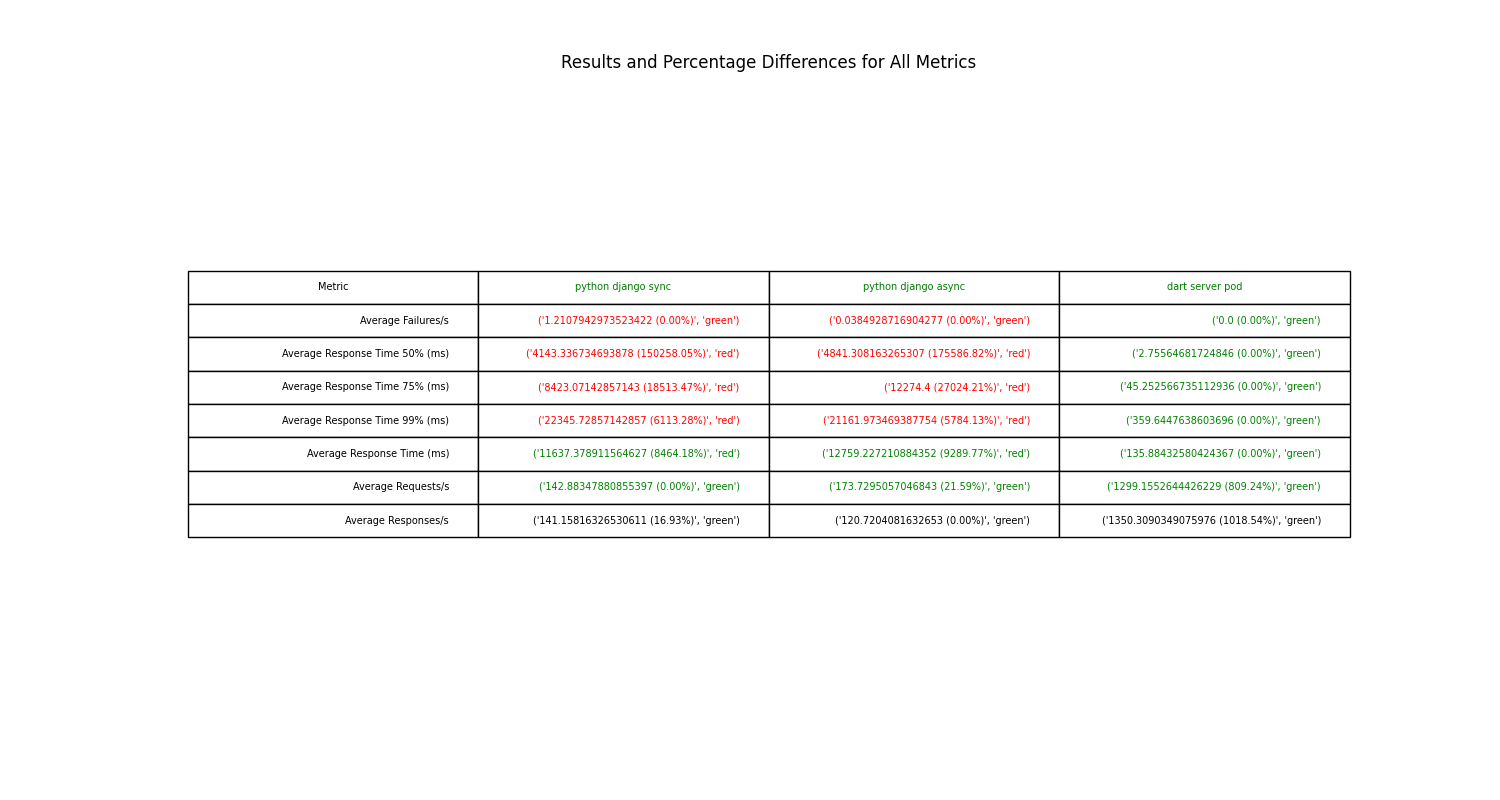
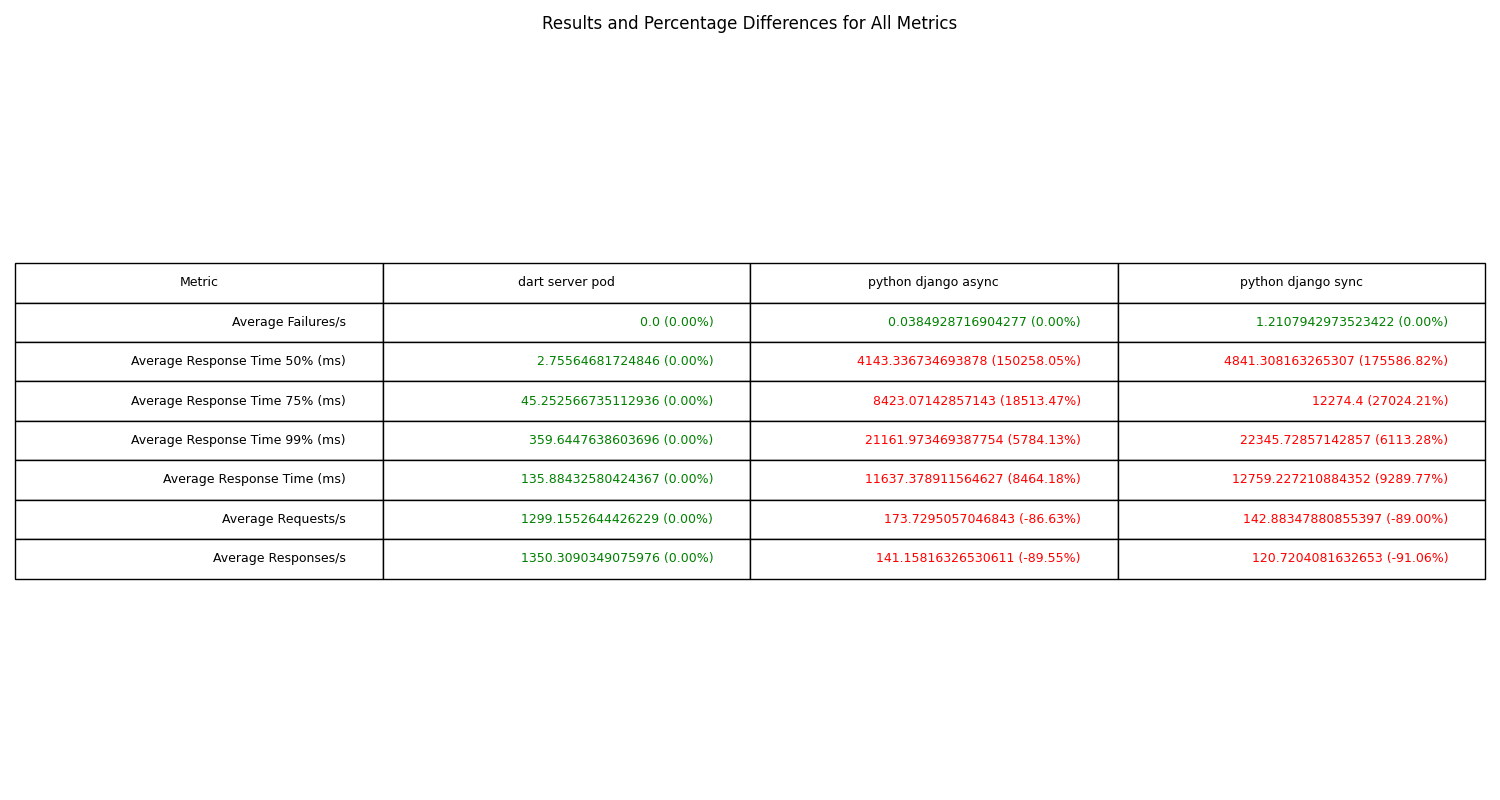
new graphs and tables

Changed region(s): [[0.0, 0.3125, 1.0, 0.75], [0.368, 0.0, 0.644, 0.0938]]

diff --git a/scripts/graphs/graph_generator.py b/scripts/graphs/graph_generator.py
@@ -172,16 +172,27 @@ def plot_summary_of_all(summaries, file_paths):
         for metric in all_metrics:
             transposed_summaries[metric][path] = summary.get(metric, 'N/A')
 
+    # Sort file paths for each metric and calculate base values
+    sorted_file_paths = {}
+    base_values = {}
+    for metric in all_metrics:
+        is_lower_better = metric in lower_is_better_metrics
+        metric_values = {path: transposed_summaries[metric].get(path, float('inf') if is_lower_better else float('-inf')) 
+                        for path in file_paths}
+        sorted_paths = sorted(metric_values, key=metric_values.get, reverse=not is_lower_better)
+        sorted_file_paths[metric] = sorted_paths
+        base_values[metric] = metric_values[sorted_paths[0]] if sorted_paths else None
+
     # Initialize table data
     table_data = []
 
     # Prepare data for table
     for metric in all_metrics:
         row = [metric]
-        for path in file_paths:
+        for path in sorted_file_paths[metric]:
             val = transposed_summaries[metric].get(path, 'N/A')
-            if val != 'N/A':
-                base_val = min(numeric_summaries[path].get(metric, float('inf')) for path in file_paths)
+            if val != 'N/A' and base_values[metric] is not None:
+                base_val = base_values[metric]
                 diff = ((val - base_val) / base_val) * 100 if base_val != 0 else 0
                 is_better = (diff <= 0 and metric in lower_is_better_metrics) or \
                             (diff >= 0 and metric in higher_is_better_metrics)
@@ -198,26 +209,38 @@ def plot_summary_of_all(summaries, file_paths):
     ax.axis('tight')
     ax.axis('off')
 
-    # Column labels with 'Metric' as the first column, then file paths
-    col_labels = ['Metric'] + file_paths
+    # Column labels with 'Metric' as the first column, then sorted file paths
+    col_labels = ['Metric'] + list(sorted_file_paths[all_metrics[0]])
 
     # Creating the table
-    table = ax.table(cellText=np.array(table_data, dtype=object), colLabels=col_labels, loc='center')
+    # Creating the table with only the text part of each cell
+    # Adjust the cellText to extract only the first element of each tuple
+    extracted_cell_text = [[cell[0] if isinstance(cell, tuple) else cell for cell in row] for row in table_data]
+    table = ax.table(cellText=np.array(extracted_cell_text, dtype=object), colLabels=col_labels, loc='center')
 
-    # Adjusting cell properties
-    for i, row in enumerate(table_data):
-        for j, cell in enumerate(row):
-            if isinstance(cell, tuple) and len(cell) == 2:
-                text, color = cell
-            else:
-                text = str(cell)  # Convert cell to string if it's not a tuple
-                color = 'black'   # Default color for unexpected cell format
-            table[i, j].get_text().set_color(color)
-            table[i, j].get_text().set_fontsize(min(10, 500 / max(len(text), 1)))  # Adjust font size
+    for (i, j), cell in table.get_celld().items():
+        if i == 0 or j == 0:
+            # Skip header or index cells
+            continue
+
+        # Extract the data from your original data structure
+        original_cell = table_data[i-1][j]  # Adjust indices for headers
+        
+        color = 'black'
+
+        # Set color based on the tuple in the original data
+        if isinstance(original_cell, tuple) and len(original_cell) == 2:
+            color = original_cell[1]
+        print("for cell", original_cell, "color is", color)
+        # Set the color of the cell text
+        cell.get_text().set_color(color)
+
 
     table.auto_set_font_size(True)
     table.scale(1, 2)
     plt.title('Results and Percentage Differences for All Metrics', pad=20)
+    plt.tight_layout()
+    # plt.draw()
     plt.savefig('/mnt/data/results_percentage_differences_all_metrics.png')
 # Function to validate and convert summary values to numeric
 def validate_and_convert_to_numeric(summary):
